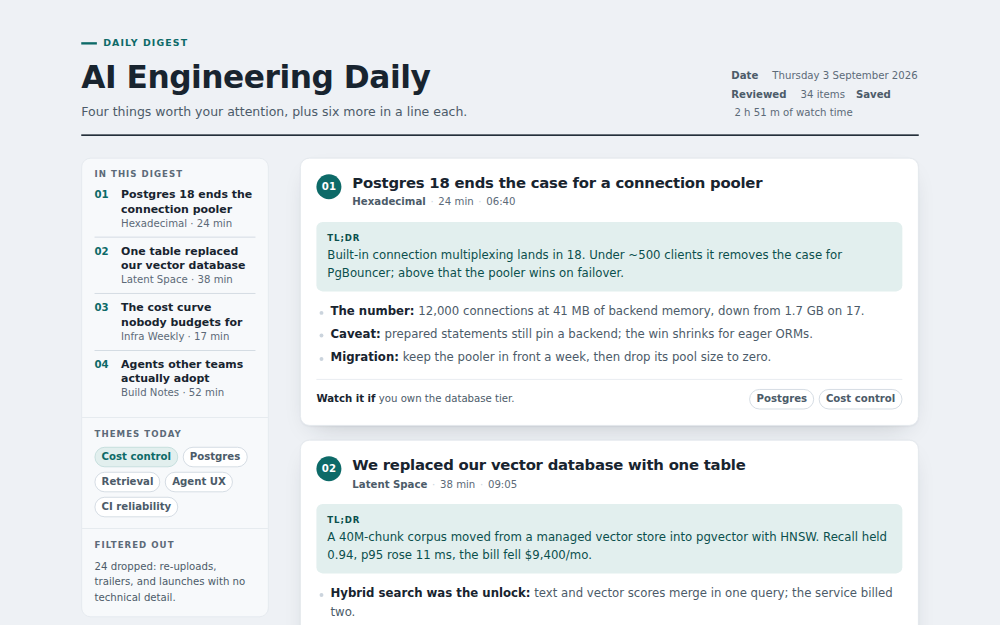
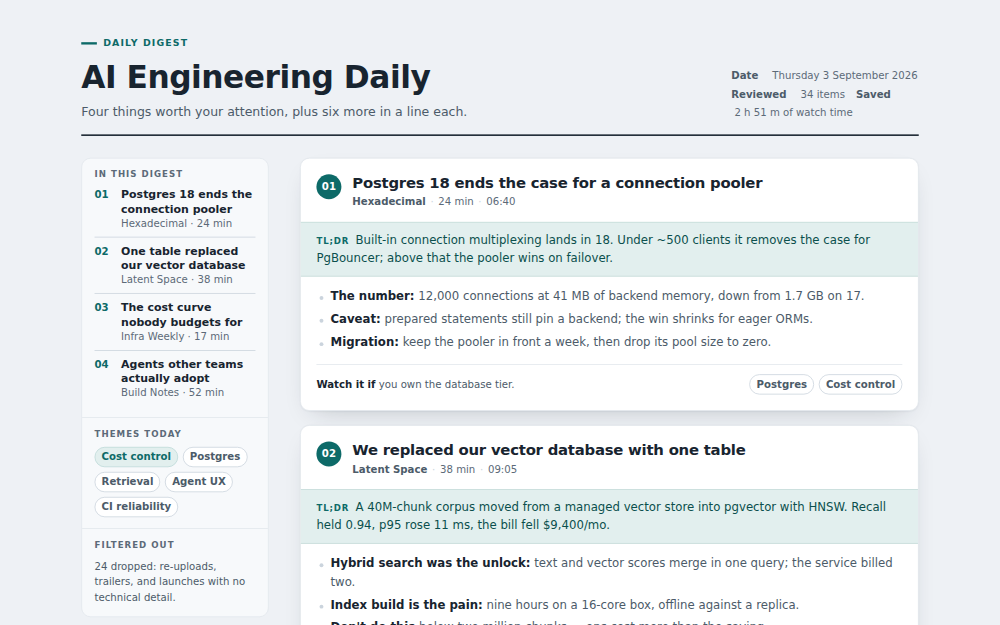
Take builder-1's two taste fixes, verified against the manifest at build time
`daily-digest` 43d0ee670bb5 and `proposal` ef57ae6d816d — the last two changes
before their drop froze. proposal's three identical stat tiles are unboxed so they
read as footnotes to the hero rather than a competing tier; daily-digest's TL;DR is
a full-bleed editorial standfirst instead of a framework alert panel. Both also came
down: 2,750 → 2,687 and 2,757 → 2,689, measured here, matching their numbers exactly.

Shas pulled from DROP-MANIFEST.json at the moment of the build rather than from the
values quoted to me, because two of the six had moved since. Seven staleness
incidents today all share one shape: a measurement that did not carry its own
provenance. The other four are byte-identical to what was already here.

dupscan clean across all fourteen HTML templates, 0 shadowed.

Changed region(s): [[0.279, 0.608, 0.93, 1.0], [0.279, 0.3344, 0.93, 0.5776]]

diff --git a/templates/proposal.html b/templates/proposal.html
@@ -13,6 +13,9 @@
   options against criteria, you want `decision-brief` instead.
   ONE hero figure. It is the number the whole argument turns on, and it is the only place the
   accent is spent at size. Do not add a second.
+  The three supporting figures under it are deliberately UNBOXED. Given borders and a background
+  they become a second tier of equal-weight cards immediately after the hero, which is the one
+  thing §7 rejects — and it undercuts the figure two inches after you made it.
   DELETE, DON'T EMPTY: nothing given up? remove that movement and renumber. Never leave a heading
   with nothing under it.
 -->
@@ -45,9 +48,9 @@ ul,ol{margin:0;padding:0;list-style:none}
 .figure small{display:block;margin-top:.5rem;color:var(--ink);font-size:.9375rem;font-weight:600;letter-spacing:normal;line-height:1.4}
 .hero .note{color:var(--muted);font-size:.9375rem;padding-bottom:.25rem}
 .hero .note b{color:var(--ink);font-weight:650}
-.support{display:grid;grid-template-columns:repeat(auto-fit,minmax(10.5rem,1fr));gap:.75rem;margin-top:1.25rem}
-.support li{padding:.75rem .875rem;background:var(--card);border:1px solid var(--line);border-radius:.5rem}
-.support .n{display:block;font-size:1.25rem;font-weight:700;letter-spacing:-.02em;font-variant-numeric:tabular-nums}
+.support{display:grid;grid-template-columns:repeat(auto-fit,minmax(9rem,1fr));gap:.25rem 1.75rem;margin-top:.875rem}
+.support li{padding-block:.375rem}
+.support .n{display:block;font-size:1.0625rem;font-weight:650;color:var(--muted);font-variant-numeric:tabular-nums}
 .support .k{display:block;margin-top:.0625rem;color:var(--subtle);font-size:.8125rem}
 
 /* the argument */
@@ -79,7 +82,7 @@ ul,ol{margin:0;padding:0;list-style:none}
   .mast .lead{font-size:1rem}
   .hero{grid-template-columns:minmax(0,1fr);gap:.625rem}
   .hero .note{padding-bottom:0}
-  .support li{padding:.625rem .75rem}
+  .support li{padding-block:.3125rem}
   .move h2{font-size:1.0625rem}
   /* height tightening — spacing only, no content removed */
   .route{margin-top:1rem;padding-top:.75rem}

diff --git a/templates/daily-digest.html b/templates/daily-digest.html
@@ -8,6 +8,8 @@
   TEMPLATE: daily-digest  ·  CATEGORY: meetings
   VOICE: humanist sans (system-ui stack)   SCHEME: cool grey-blue paper, teal accent
   Rewriting this? Replace the content, keep the structure and the styling.
+  The TL;DR band is full-bleed with square edges on purpose. Inset, rounded and tinted is the
+  shape every CSS framework gives an alert, and it makes a considered summary look generated.
   DELETE, DON'T EMPTY: no themes? remove that whole .rail__sec, heading included.
   Nothing collapsed? remove the <details>. Never leave a heading with nothing under it.
   MANY ITEMS: feature at most six; put the rest in the collapsed "also reviewed" list and
@@ -68,8 +70,8 @@ a{color:var(--teal)}
 .item__meta{margin-top:.25rem;color:var(--subtle);font-size:.8125rem}
 .item__meta b{color:var(--muted);font-weight:600}
 .item__meta span::before{content:"·";margin:0 .375rem;color:var(--line-2)}
-.tldr{margin-top:.875rem;padding:.75rem .875rem;background:var(--teal-soft);border-radius:.5rem;color:#0b4f4d;font-size:.9375rem}
-.tldr b{display:block;font-size:.6875rem;font-weight:700;letter-spacing:.1em;text-transform:uppercase;margin-bottom:.125rem}
+.tldr{margin:.875rem -1.25rem 0;padding:.6875rem 1.25rem;background:var(--teal-soft);border-block:1px solid #c6dcd9;color:#0b4f4d;font-size:.9375rem}
+.tldr b{font-size:.6875rem;font-weight:700;letter-spacing:.1em;text-transform:uppercase;color:var(--teal);margin-right:.5rem}
 .pts{margin-top:.875rem}
 .pts li{position:relative;padding-left:1.125rem;color:var(--muted);font-size:.9375rem}
 .pts li+li{margin-top:.375rem}
@@ -117,7 +119,7 @@ summary span{color:var(--subtle);font-weight:400;font-size:.8125rem}
   .pts li+li{margin-top:.25rem}
   .toc a{font-size:.8125rem}
 
-  .tldr{padding:.625rem .75rem}
+  .tldr{margin-inline:-.875rem;padding:.625rem .875rem}
   summary,.rest{padding-inline:1rem}
   /* height tightening — spacing only, no content removed */
   .mast{padding-bottom:.75rem}
